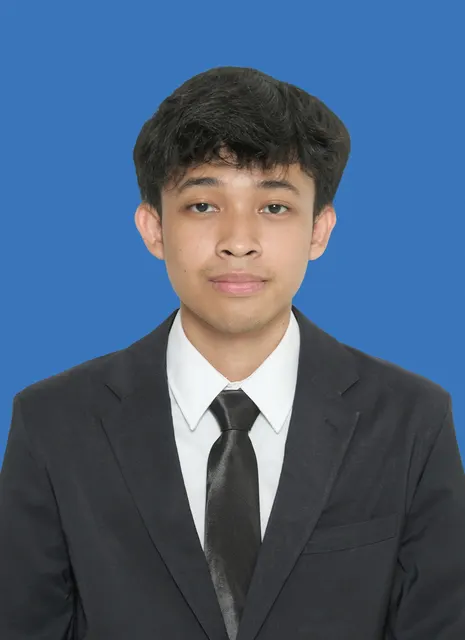
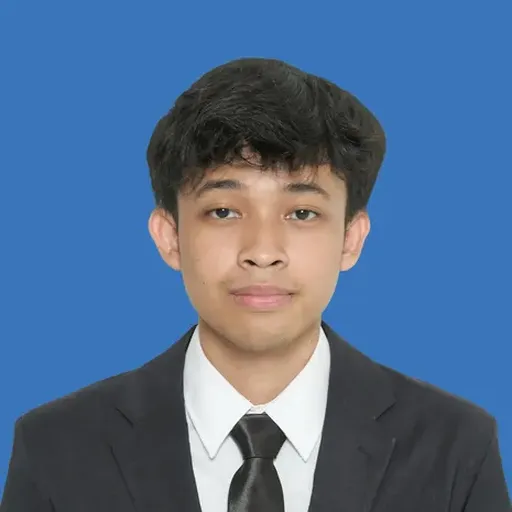
fix(coach): kartu compact seragam, foto crop face-align, detail satu baris

diff --git a/src/data/coaches.ts b/src/data/coaches.ts
@@ -2,54 +2,43 @@ export type Coach = {
   nama: string;
   peran: string;
   foto?: string;
-  ielts?: string;
-  stat?: string;
-  olahraga?: string;
-  bio?: string;
+  /** Satu baris kecil di bawah peran — hanya untuk coach yang punya detail terkonfirmasi. */
+  detail?: string;
 };
 
+// Hanya memuat fakta yang terkonfirmasi materi klien (Coaches Picture + brief).
+// Bio Ferri (ex-media PERSIB & PSSI) dan angka 2.175 atlet sudah tampil di
+// intro section & StatsBar home, jadi tidak diulang di kartu.
 export const coaches: Coach[] = [
   {
     nama: 'Ferri Ahrial',
     peran: 'Founder & Head Coach',
     foto: '/media/coaches/ferri-ahrial.webp',
-    stat: '2.175+ atlet teredukasi',
-    olahraga: 'Sepak Bola',
-    bio: 'Ex-media PERSIB Bandung & PSSI. Mendampingi atlet berbicara di depan media sejak 2025.',
+    detail: 'Ex-media PERSIB Bandung & PSSI · 2.175+ atlet teredukasi',
   },
   {
     nama: 'Ilham Ahmad',
     peran: 'Sports Communication Coach',
     foto: '/media/coaches/ilham-ahmad.webp',
-    stat: 'Coach Senior',
-    olahraga: 'Bulu Tangkis',
   },
   {
     nama: 'Fathur Fathurrahman',
     peran: 'Sports Communication Coach',
     foto: '/media/coaches/fathur-fathurrahman.webp',
-    stat: 'Coach Senior',
-    olahraga: 'Sepak Bola',
   },
   {
     nama: 'Farhana Ayya',
     peran: 'Sports Communication Coach',
     foto: '/media/coaches/farhana-ayya.webp',
-    ielts: 'IELTS Certified',
-    olahraga: 'Atletik',
   },
   {
     nama: 'Salim',
     peran: 'Sports Communication Coach',
     foto: '/media/coaches/salim.webp',
-    ielts: 'IELTS Certified',
-    olahraga: 'Futsal',
   },
   {
     nama: 'Ido',
     peran: 'Sports Communication Coach',
     foto: '/media/coaches/ido.webp',
-    ielts: 'IELTS Certified',
-    olahraga: 'Basket',
   },
 ];
